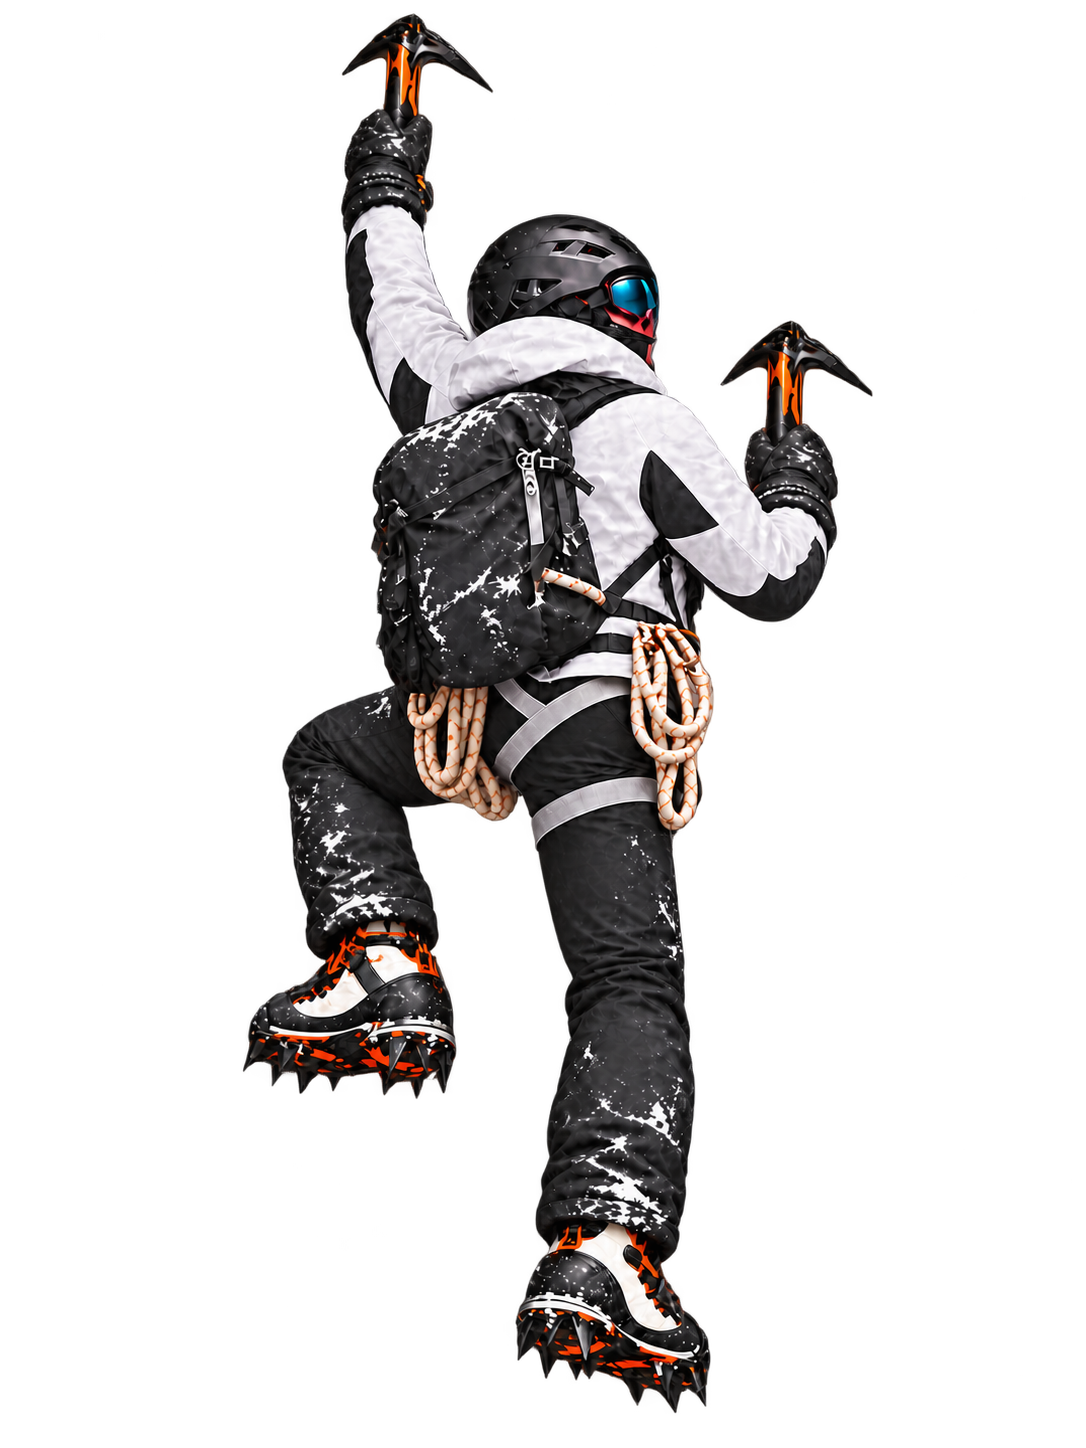
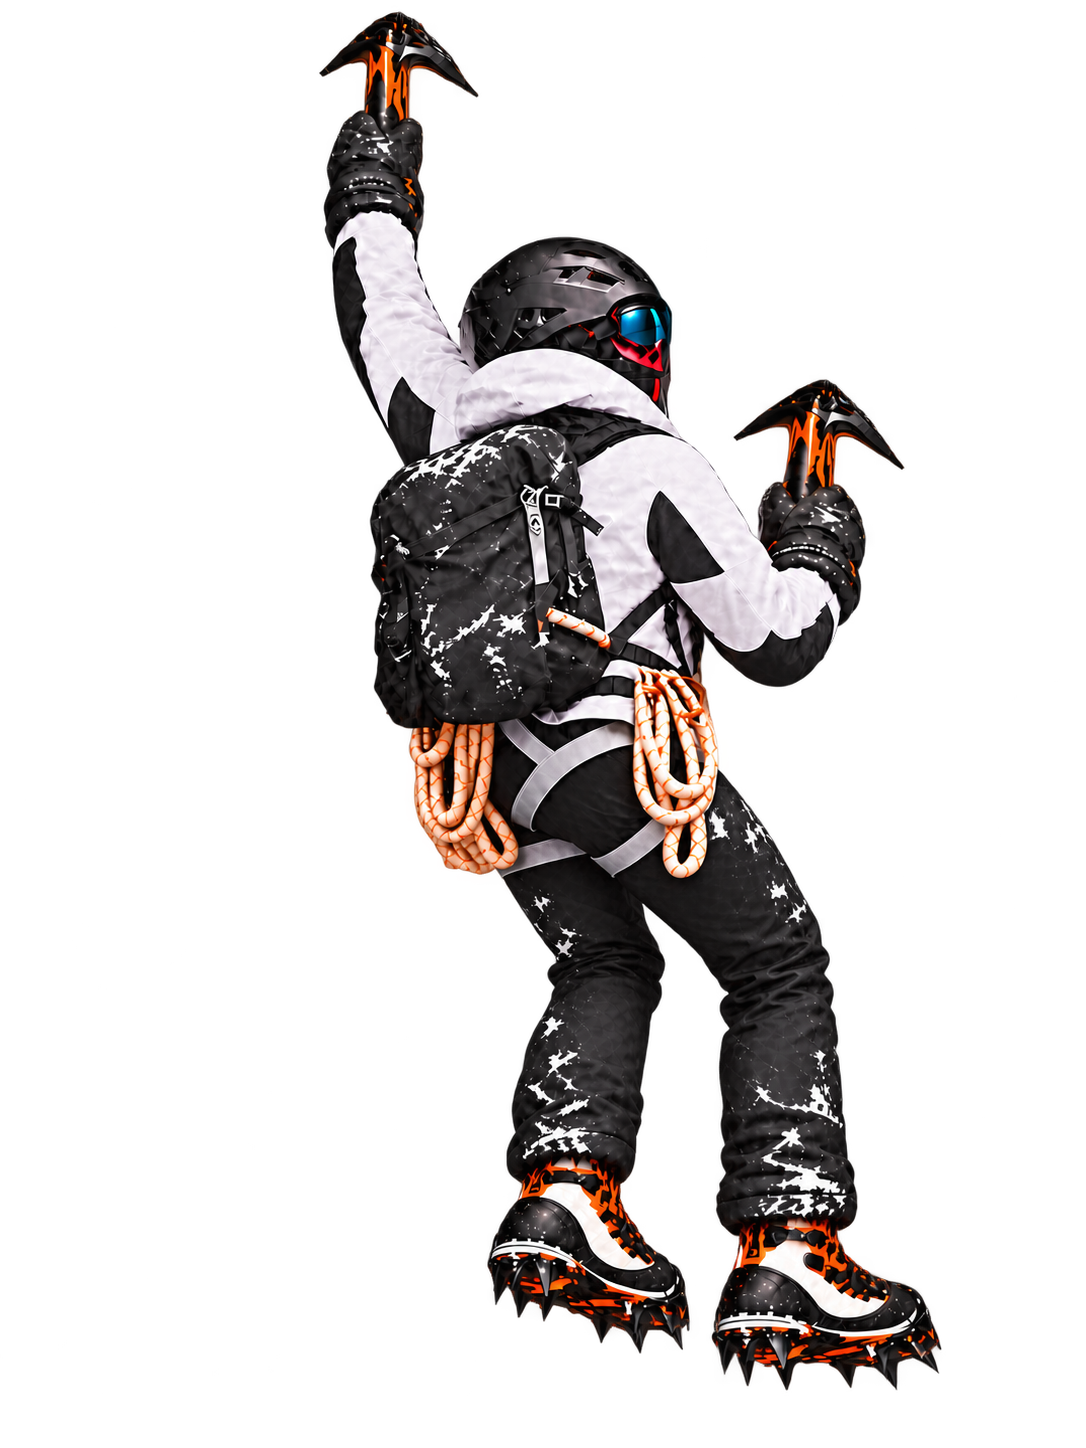
Keep Ascent climber opaque and right-facing through each step

Changed region(s): [[0.2127, 0.0, 0.8812, 0.9945]]

diff --git a/assets/js/expedition.js b/assets/js/expedition.js
@@ -15,13 +15,12 @@
   const contact = root.querySelector('[data-expedition-contact]');
   const climber = root.querySelector('[data-expedition-climber]');
   const primaryFrame = climber.querySelector('[data-climber-frame-primary]');
-  const nextFrame = climber.querySelector('[data-climber-frame-next]');
   const firstFrameUrl = primaryFrame.getAttribute('href');
   const frameUrls = Array.from({ length: 10 }, (_, index) =>
     firstFrameUrl.replace(/01\.webp/, `${String(index + 1).padStart(2, '0')}.webp`));
   // Every complete-body image is registered to the same goggle position at
-  // export time. The two whole-body images blend between neighboring poses;
-  // there are no separately animated limbs or per-pose transforms.
+  // export time. Only one fully opaque pose is drawn at once: crossfading
+  // complete figures made the mountaineer look translucent against the ice.
   // Warm the remaining poses after the first page paint. Fetching all poses at
   // startup competed with the mountain's first paint on mobile. Any deliberate
   // wheel/touch interaction starts preloading sooner.
@@ -126,15 +125,9 @@
     // A full right/left stepping cycle spans two entries. The previous cycle
     // raced through every pose during a single moderate wheel gesture.
     const pose = motion.matches ? 0 : current * frameUrls.length / 2;
-    const frameIndex = Math.floor(pose) % frameUrls.length;
-    const nextIndex = (frameIndex + 1) % frameUrls.length;
-    const blend = motion.matches ? 0 : ease(pose - Math.floor(pose));
+    const frameIndex = Math.round(pose) % frameUrls.length;
     if (primaryFrame.getAttribute('href') !== frameUrls[frameIndex])
       primaryFrame.setAttribute('href', frameUrls[frameIndex]);
-    if (nextFrame.getAttribute('href') !== frameUrls[nextIndex])
-      nextFrame.setAttribute('href', frameUrls[nextIndex]);
-    primaryFrame.setAttribute('opacity', (1 - blend).toFixed(3));
-    nextFrame.setAttribute('opacity', blend.toFixed(3));
     climber.setAttribute('transform', `translate(${(point.x + 45).toFixed(2)} ${(point.y + 65).toFixed(2)}) scale(1.65)`);
     position.textContent = String(Math.min(stages + 1, Math.floor(current) + 1)).padStart(2, '0');
     const nearest = Math.round(current);

diff --git a/_includes/expedition.html b/_includes/expedition.html
@@ -22,8 +22,7 @@
         <ellipse class="expedition-contact-shadow" data-expedition-contact rx="17" ry="5" filter="url(#expedition-contact-blur)" />
         <g class="expedition-climber" data-expedition-climber>
           <svg x="-54" y="-106" width="88" height="117" viewBox="0 0 400 533" overflow="visible">
-            <image data-climber-frame-primary href="{{ '/assets/media/ascent-climber-frame-01.webp' | relative_url }}?v=ascent-13" width="400" height="533" />
-            <image data-climber-frame-next href="{{ '/assets/media/ascent-climber-frame-02.webp' | relative_url }}?v=ascent-13" width="400" height="533" opacity="0" />
+            <image data-climber-frame-primary href="{{ '/assets/media/ascent-climber-frame-01.webp' | relative_url }}?v=ascent-14" width="400" height="533" />
           </svg>
         </g>
       </g>

diff --git a/_layouts/default.html b/_layouts/default.html
@@ -19,7 +19,7 @@
   <script src="{{ '/assets/js/site.js' | relative_url }}" defer></script>
   <script src="{{ '/assets/js/experience.js' | relative_url }}" defer></script>
   <script src="{{ '/assets/js/contact.js' | relative_url }}" defer></script>
-  {% if page.url == '/journey/' %}<script src="{{ '/assets/js/expedition.js' | relative_url }}?v=ascent-13" defer></script>{% endif %}
+  {% if page.url == '/journey/' %}<script src="{{ '/assets/js/expedition.js' | relative_url }}?v=ascent-14" defer></script>{% endif %}
 </head>
 <body data-baseurl="{{ site.baseurl }}">
   {% include header.html %}

diff --git a/PROJECT_STATUS.md b/PROJECT_STATUS.md
@@ -4,7 +4,7 @@ Updated: October 12, 2026 (America/Los_Angeles).
 
 ## Current state
 
-**The approved site design remains intact. The dedicated Ascent now uses ten sequentially edited, complete black-and-white mountaineer poses with alternating footwork.** All are viewed from the same right-facing rear-three-quarter angle; each contains the whole body and gear, including both legs and boots. Neighboring whole poses blend as the viewer scrolls, and one climbing cycle spans two entries. The self-service Markdown workflow, original content, four navigation destinations, existing links and approved page structure remain intact. Earlier Firefox/WebKit results predate this latest refinement; their executables are unavailable in this environment. Nothing has been pushed, merged or deployed.
+**The approved site design remains intact. The dedicated Ascent uses ten complete black-and-white mountaineer poses with alternating footwork.** The far-leg phase now bends toward the wall on the image right; both boot toes face right through the cycle. A single opaque full-body pose is shown at a time, so the climber no longer becomes translucent during handovers. One cycle still spans two entries, preserving scroll pace. The self-service Markdown workflow, original content, four navigation destinations, existing links and approved page structure remain intact. Earlier Firefox/WebKit results predate this latest refinement; their executables are unavailable in this environment. Nothing has been pushed, merged or deployed.
 
 - Active repository: `C:/Users/super/Documents/ChatGPT/portfolio website remodel/portfolio-v2`.
 - Branch: `codex/portfolio-v2`, based on `da50b14` (`main`).
@@ -13,7 +13,16 @@ Updated: October 12, 2026 (America/Los_Angeles).
 - Local preview: `http://127.0.0.1:4173/`, serving production `_site` output.
 - Parent workspace `PROJECT_STATUS.md` points here. This is the canonical handoff.
 
-## October 12 ladder-reference gait rebuild — latest handoff
+## October 12 right-facing, opaque pose correction — latest handoff
+
+- Completed: replaced the six poses that needed right-facing leg or transition corrections with complete edited drawings. In the new far-leg phase, the knee folds toward the image-right wall behind the supporting shin, and both crampon toes point right. Kept the same outfit, rear-three-quarter viewpoint, mountain, camera path, route highlight, scroll easing and cycle speed. Removed the two-image opacity crossfade and now renders one complete opaque pose at a time. Re-exported all ten registered WebPs and bumped Ascent URLs to `ascent-14`.
+- Currently in progress: none after committing this handoff. The site is still a branch-only local preview, not a production release.
+- Decisions: keep complete painted frames, never a fixed torso with hinged limbs; preserve the two-entry step cycle. The opaque playback is intentional because transparency was explicitly rejected. The sources and exporter remain in `assets/img/ascent-climber-sequence/` and `scripts/build_climber_frames.cjs`.
+- Known issues: the pose handovers remain discrete and are especially noticeable between poses 03–04 and while very slowly scrubbing. The drawings evoke a climb but do not provide physically solved tool or crampon contact with the illustrated wall; no 30-fps footage has been produced. Real-device motion judgment, Firefox/WebKit runners, branch-only Linux CI and live custom-domain verification remain outstanding. No push, merge or deployment.
+- Testing: production Jekyll build; ten-frame pose contact sheet, 20 rendered scroll-position captures and a full desktop scene visually inspected; focused Ascent Chrome checks; full Chrome browser suite (94 routes, 132 responsive pages, 22 axe checks, six interaction groups, 10 experience groups, 11 editorial groups, 10 Ascent groups); site integrity (26 original files unchanged, nine post routes, 47 pages, 1,688 local references); JavaScript syntax and Git whitespace checks. Local `/journey/` responds HTTP 200.
+- **Exact recommended next task:** review the opaque Ascent in the live `/journey/` preview on a real desktop and phone, including slow reverse scrolling. If the discrete 03–04 handover remains distracting, commission or create a coherent, professionally animated single-model full-body sequence with substantially more frames while keeping the current page design and scroll speed. Then restore Firefox/WebKit coverage, run branch-only Linux CI and verify the custom domain before any production merge.
+
+## October 12 ladder-reference gait rebuild — earlier handoff, superseded where noted above
 
 - Completed: watched the user-supplied [climbing animation reference](https://www.youtube.com/watch?v=d-m-HuN-PkU) and adapted its steady-torso, alternating hand-and-foot rhythm to the existing right-facing mountaineer. Generated ten individual transparent whole-body drawings by successive edits, including a left-boot-high and a right-boot-high phase; no ladder is rendered. Replaced the former 16-pose sheet export with ten registered WebPs. The browser now blends two **complete** neighboring poses and advances one cycle over two entries rather than one. The Everest scene, page structure, posts, routes, content, navigation, and other site components were not changed. Removed obsolete source sheets and six unused WebPs; Git history retains them. Bumped Ascent assets to `ascent-13`.
 - Currently in progress: none after this change is committed. Manual real-device motion judgment remains before production.

diff --git a/docs/ASCENT_ART.md b/docs/ASCENT_ART.md
@@ -10,7 +10,7 @@ The mountain backdrop, close ice wall and climber poses are original generated i
 - Earlier orange climber source: `assets/img/ascent-climber-frames.png`; its first transparent pose remains at `assets/media/ascent-climber-01.webp` for provenance, but is no longer loaded by the page. That sheet did not provide the current black-and-white frame sequence.
 - Earlier black-and-white climber source: `assets/img/ascent-climber-alpine.png` (1086 × 1448, transparent); optimized single pose: `assets/media/ascent-climber-alpine.webp`. It informed the current clothing, gear and view angle. The hinged raster-limb rig that cut up this painting was removed after it repeatedly produced broken-looking joints.
 - Current animation sources: ten individual transparent **complete figure** drawings in `assets/img/ascent-climber-sequence/pose-01.png` through `pose-10.png`. Each successive drawing was edited from a preceding whole pose, retaining the right-facing rear-three-quarter character and right-facing tools. The gait takes its restrained alternating hand/foot rhythm from the user-supplied [ladder-climbing animation reference](https://www.youtube.com/watch?v=d-m-HuN-PkU); no ladder appears on the site. Both legs and crampon boots are visible in every image. Earlier 2 × 2 sprite sheets are preserved in Git history. `npm run build:climber-frames` aligns the goggles and exports ten 400 × 533 WebPs. `node scripts/preview_climber_frames.cjs` and `node scripts/preview_climber_motion.cjs` produce visual QA contact sheets in `test-results/`.
-- The ten whole-body poses now span **two** journal entries instead of one; moderate scrolling no longer races through an entire cycle. Two complete images blend between adjacent poses to soften each handover. No separate arms, legs, jacket panels or gear are rotated or resized. A crossfade was rejected with the former divergent pose sheets because it doubled tools and feet; the new registered sequential drawings were visually checked in the actual scene at 20 intermediate scroll positions, where that artifact is substantially less visible. This remains an illustrated sequence, not a filmed or physically simulated climb. Reduced-motion holds the first pose. The outfit is unbranded black-and-white alpine technical gear. Asset/script URL version: `ascent-13`.
+- The ten whole-body poses span **two** journal entries, retaining the approved scroll pace. The far-leg phase was redrawn so its knee bends toward the wall on image right and both boot toes remain right-facing throughout. Only one complete image is visible at a time; the whole-image crossfade was removed because it made the climber translucent. No separate arms, legs, jacket panels or gear are rotated or resized. The sequence was checked as a ten-frame contact sheet and at 20 positions in the rendered wall scene. This remains an illustrated sequence, not filmed or physically simulated climbing; discrete pose changes are still perceptible while scrubbing slowly. Reduced-motion holds the first pose. The outfit is unbranded black-and-white alpine technical gear. Asset/script URL version: `ascent-14`.
 - The Home identity section reuses the existing Everest illustration through its 800 px WebP derivative. No new mountain asset was generated.
 
 Movement references: [Petzl's ice-climbing technique video](https://www.petzl.com/int/en/sport/tech-tips/basic-techniques/ice-climbing-technique---the-basics/Cascade-gestuelle_SPO_a771r000000PFoJAAW.html), [Petzl's Ice Climbing Basics access book](https://s3.amazonaws.com/Petzl_home_Prod/Accessbook/ACCESSBOOK-ICE-CLIMBING-EN-2018.pdf), and [REI's ice-climbing guidance](https://www.rei.com/learn/expert-advice/ice-climbing-waterfalls-alpine-walls.html) emphasize stable tool/foot placements and rising through the legs. These sources informed the illustration's rhythm; the individual drawn poses are not climbing instruction or a physical simulation.
